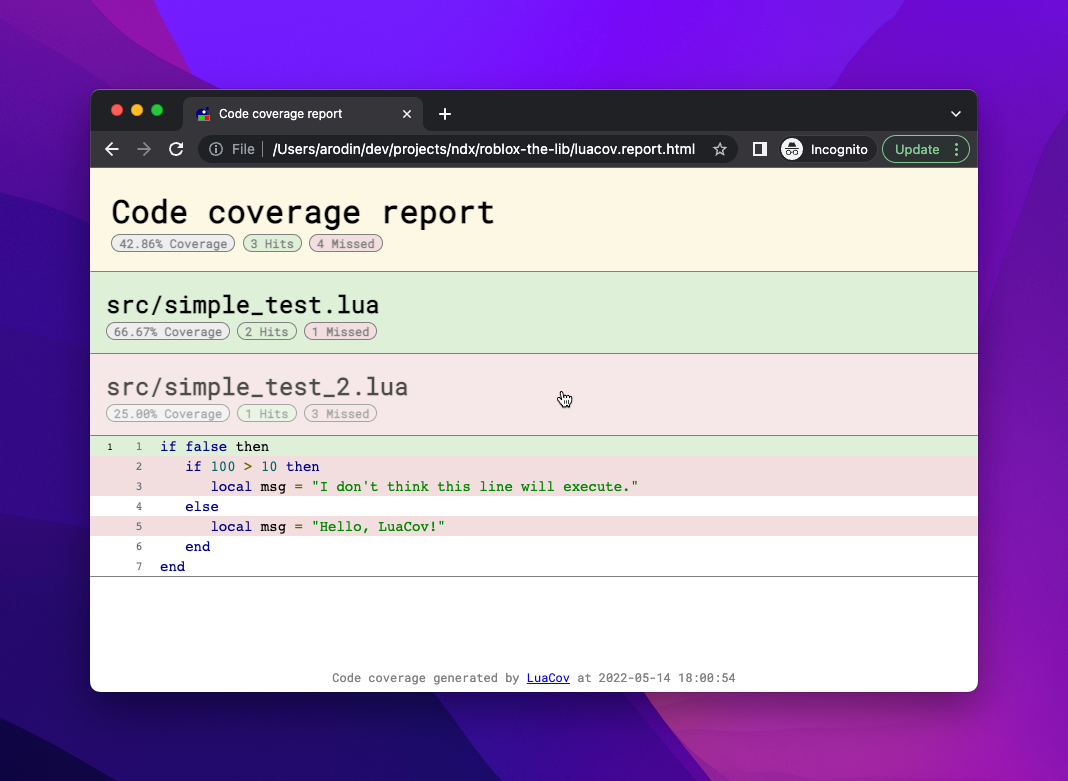
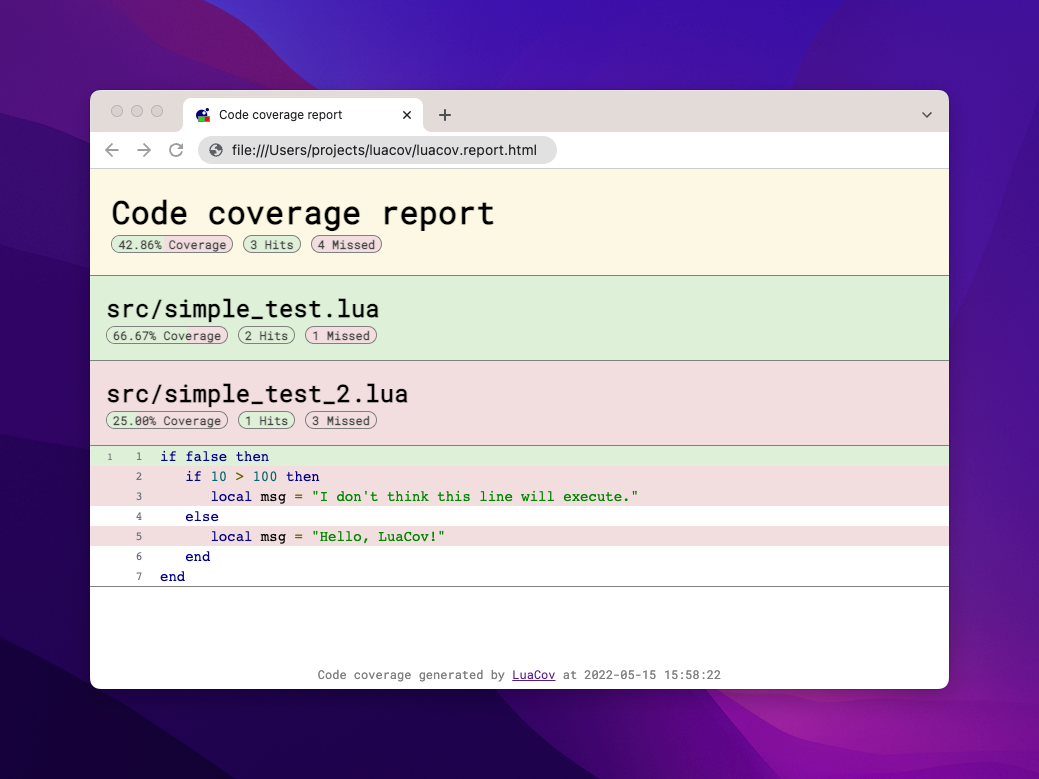
improvements

diff --git a/src/luacov/reporter/html/report.css b/src/luacov/reporter/html/report.css
@@ -261,18 +261,20 @@ pre.prettyprint span.hits {
 
 .file .title .stats {
     font-size: 12px;
-    display: block;
     line-height: 12px;
-    color: #808080;
-    margin-top: 5px;
+    color: #444;
+    margin-top: 2px;
+    display: flex;
 }
 
 .file .title .stats .hits,
 .file .title .stats .cov,
 .file .title .stats .miss {
-    padding: 0 7px;
+    padding: 2px 6px;
     border-radius: 12px;
     border: 1px solid #808080;
+    position: relative;
+    margin-right: 10px;
 }
 
 .file .title .stats .hits {
@@ -280,7 +282,20 @@ pre.prettyprint span.hits {
 }
 
 .file .title .stats .cov {
-    background: #EEEEEE;
+    background: #F2DEDE;
+    overflow: hidden;
+}
+
+.file .title .stats .cov span {
+    position: relative;
+}
+
+.file .title .stats .cov .bg {
+    height: 100%;
+    position: absolute;
+    left: 0;
+    top: 0;
+    background-color: #DFF0D8;
 }
 
 .file .title .stats .miss {
